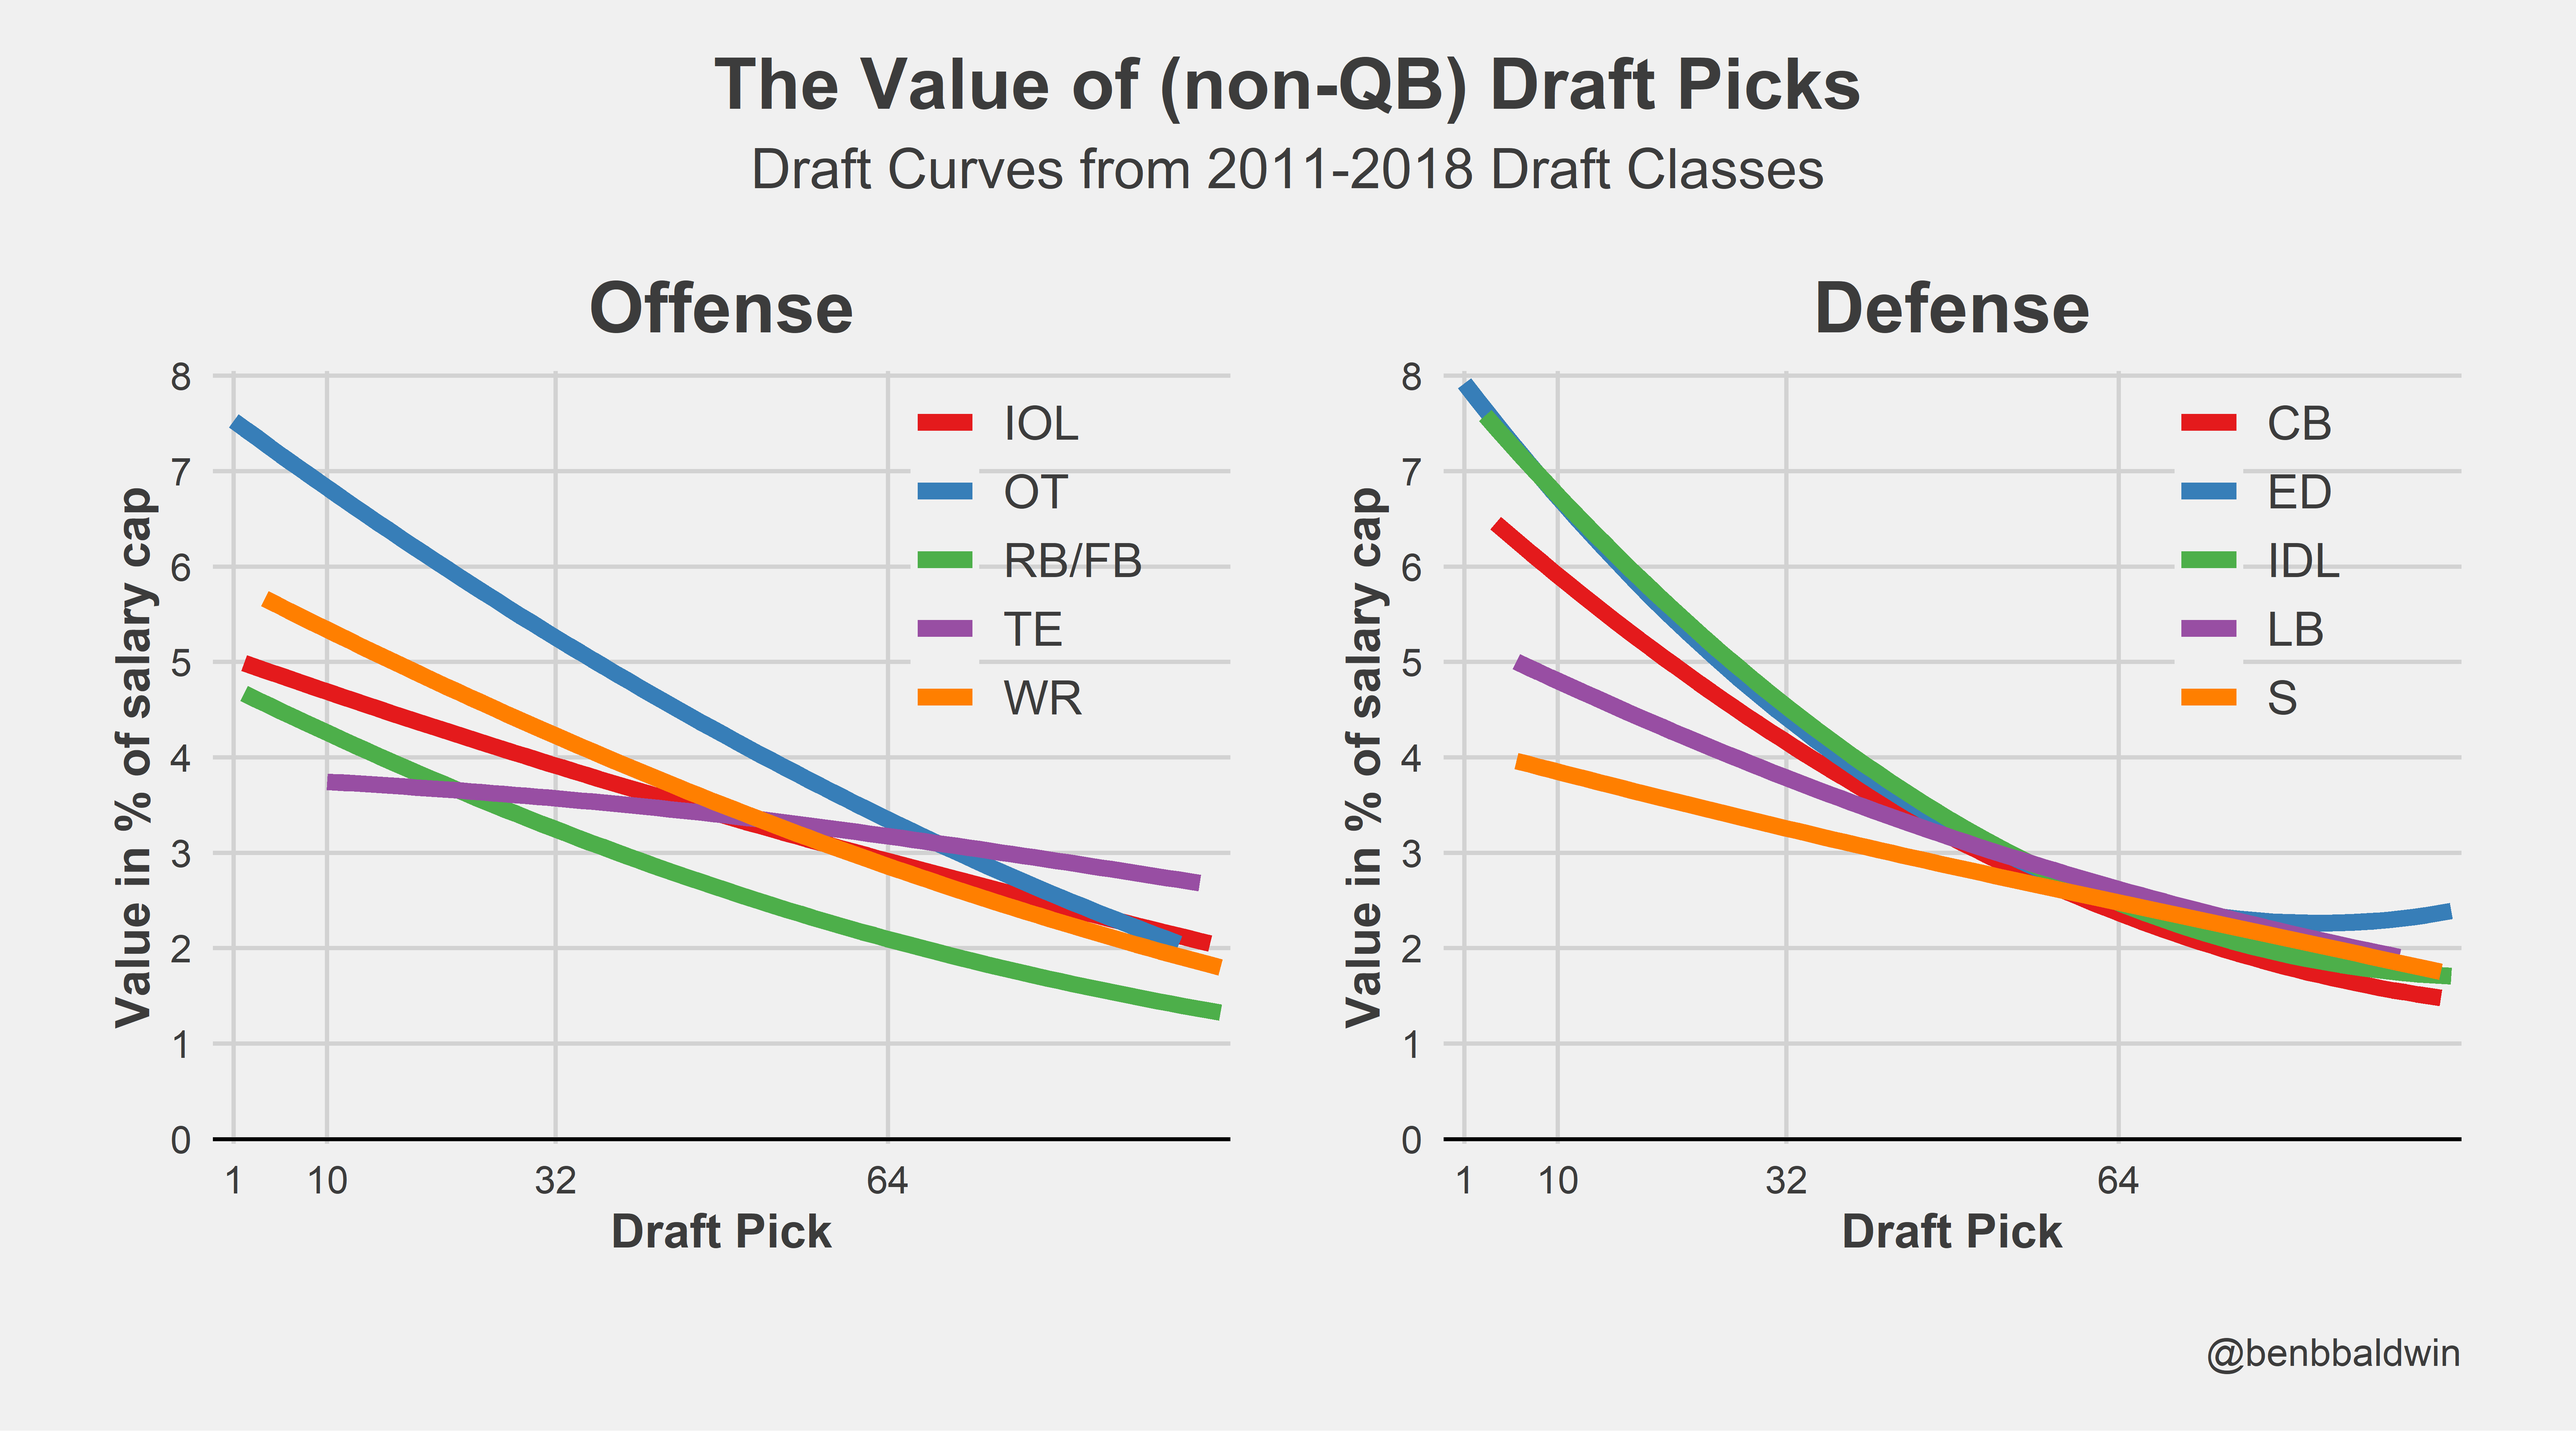
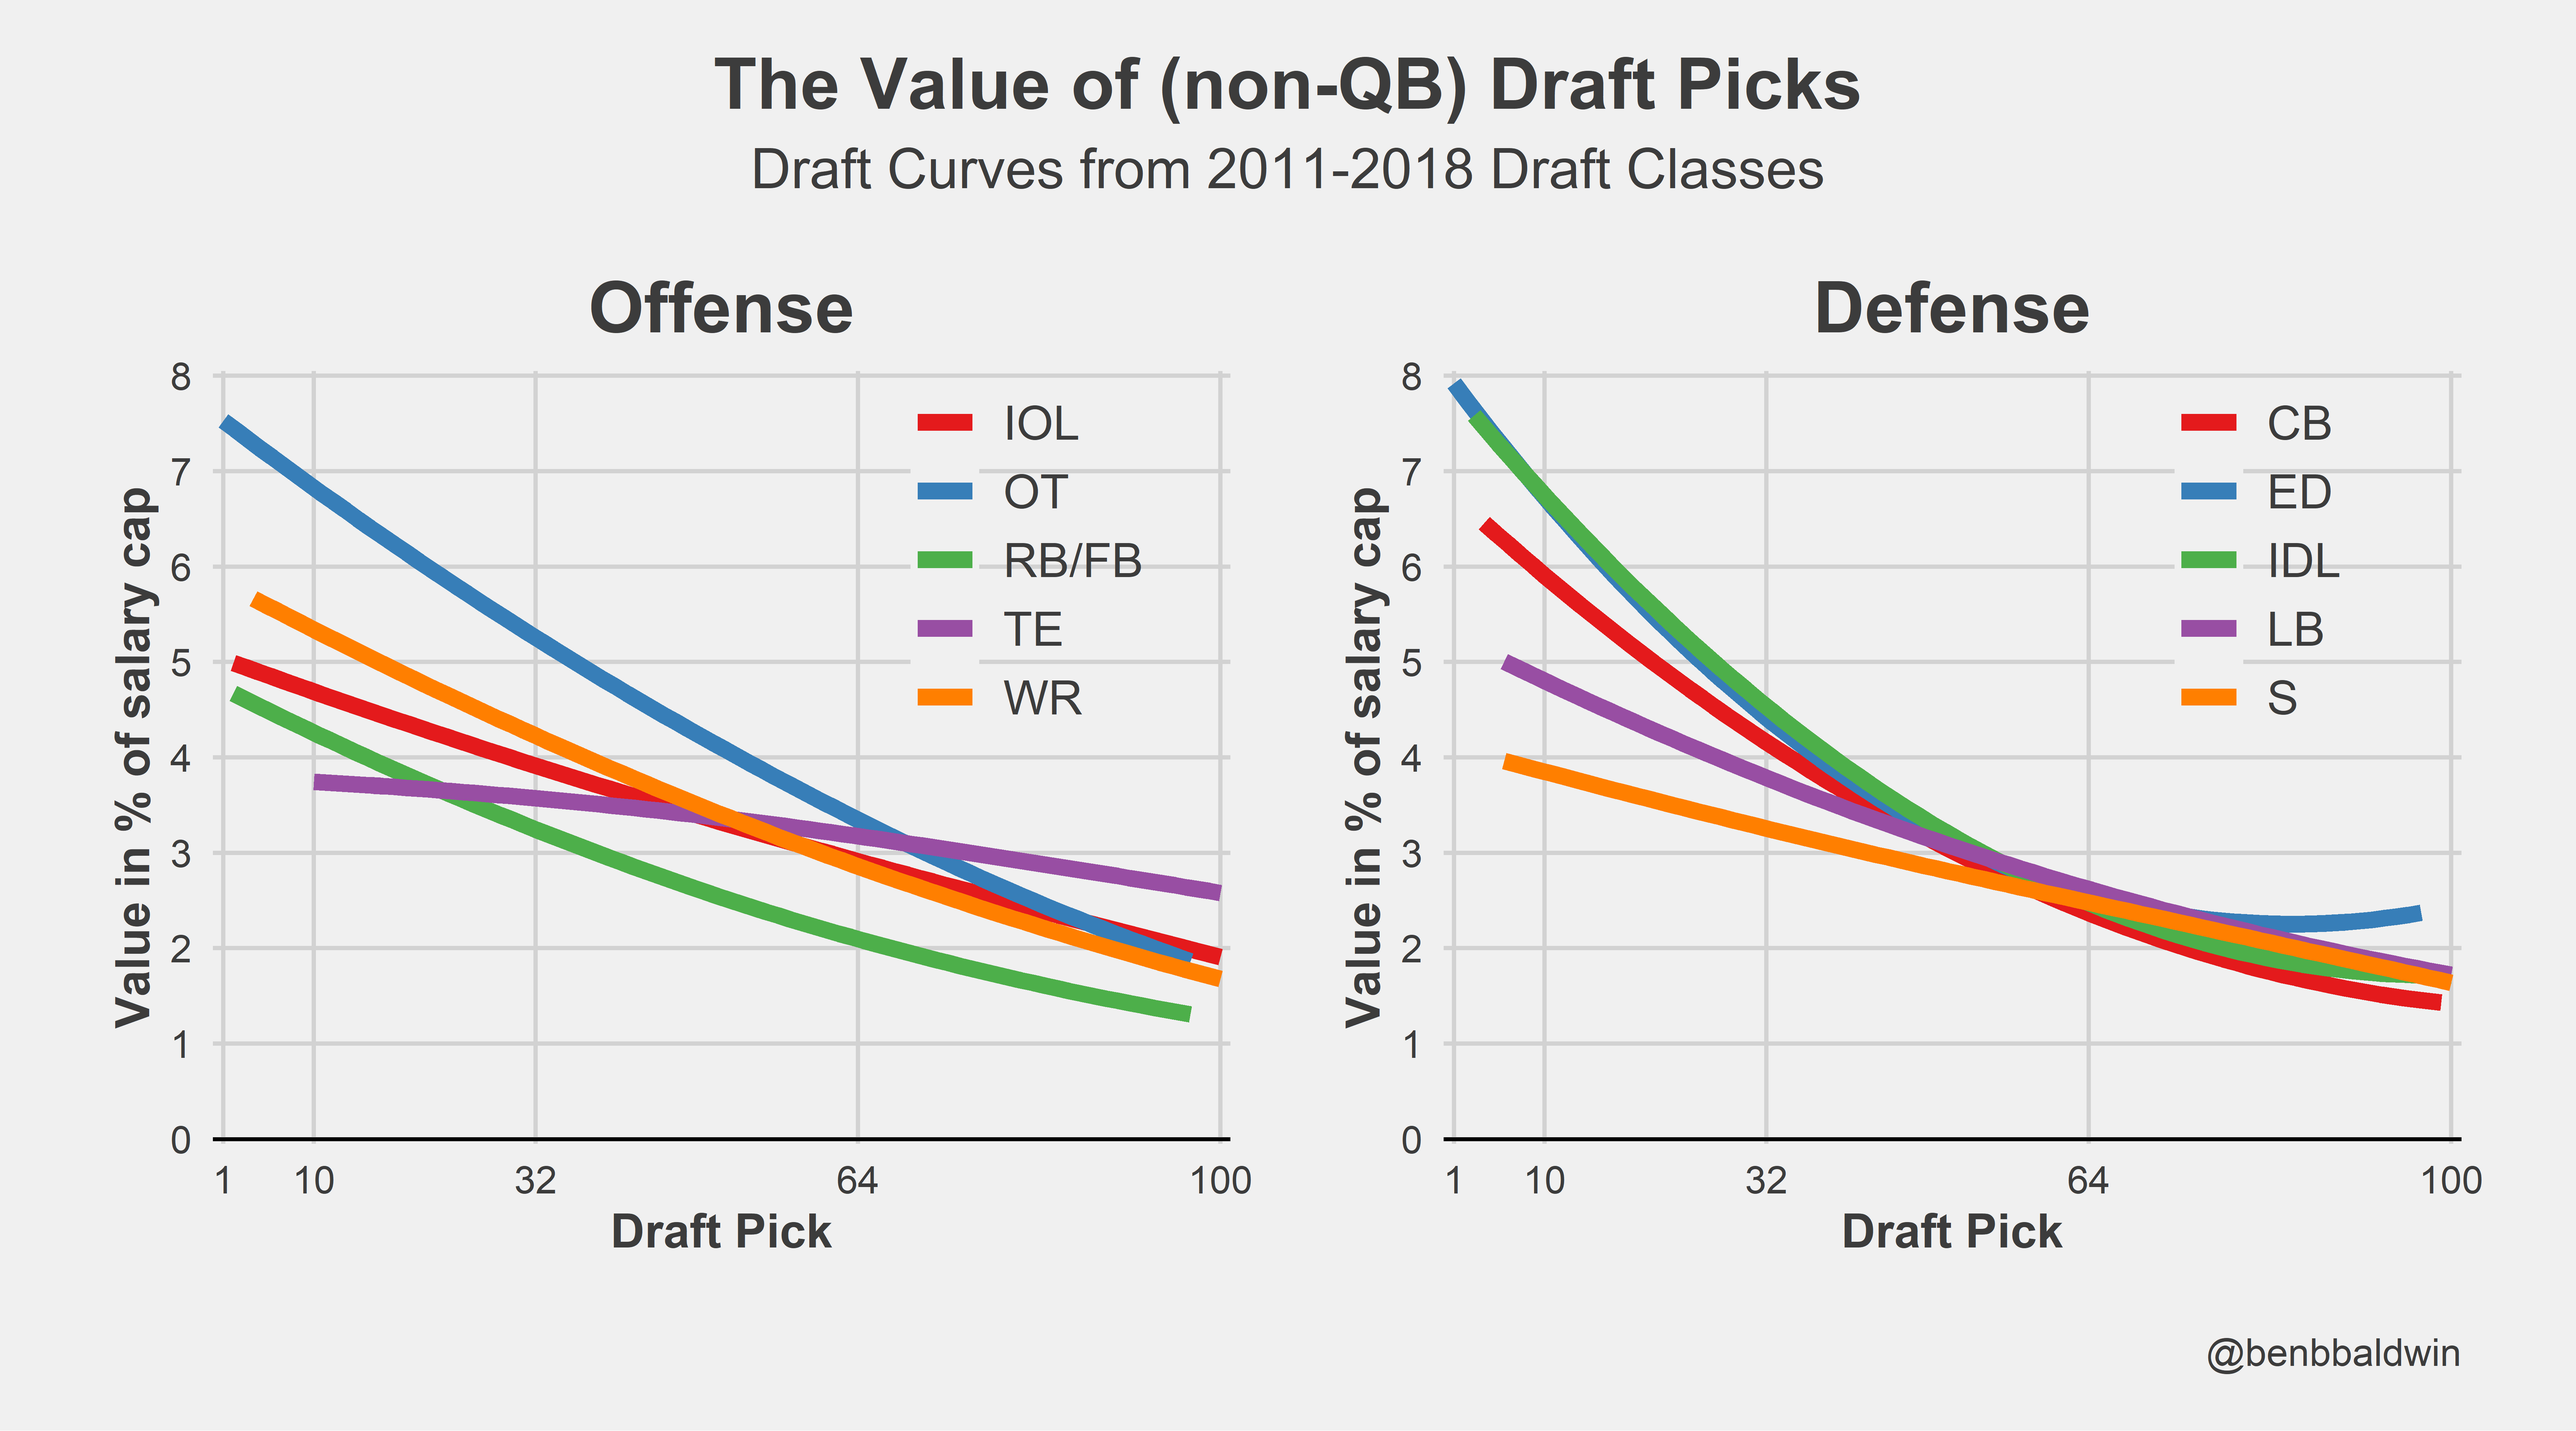
fix axes

diff --git a/_posts/2023-02-23-nfl-draft-value-chart/nfl-draft-value-chart.html b/_posts/2023-02-23-nfl-draft-value-chart/nfl-draft-value-chart.html
@@ -1571,6 +1571,7 @@ code span.wa { color: #5e5e5e; font-style: italic; } /* Warning */
 <p>Before moving forward, a thank you to the invaluable resource that <a href="https://overthecap.com/">Over The Cap</a> represents. All of the contract data used in this post is taken from their website and this analysis wouldn’t be possible without their hard work.</p>
 <p><strong>Updated on February 27, 2023</strong>: (a) added more picks to the table at the bottom so it now displays picks 1-256, (b) added on-field value to table at the bottom, and (c) re-scaled surplus value so it’s 0-to-100 (thank you to Luckym4n_ <a href="https://twitter.com/Luckym4n_/status/1629595953261838336">for the suggestion</a>)/</p>
 <p><strong>Updated on April 11, 2023</strong>: Add 2018 draft class to on-field value calculations. Now covers 2011 through 2018. For Calvin Ridley, assume he’ll get an extension equivalent to tag value. In addition, use archieved version of Sportrac rookie contract value to avoid site updates breaking the scrape.</p>
+<p><strong>Updated on April 17, 2023</strong>: Added position-specific draft curves.</p>
 <h1 id="part-1-make-a-surplus-value-curve">Part 1: Make a surplus value curve</h1>
 <p>In order to calculate the surplus value of each pick. We need two pieces of information. First, how much each pick costs (the contract); and second, how much benefit each pick provides (on-field performance).</p>
 <h2 id="how-expensive-is-each-draft-picks-rookie-deal">How expensive is each draft pick’s rookie deal?</h2>
@@ -1660,13 +1661,13 @@ code span.wa { color: #5e5e5e; font-style: italic; } /* Warning */
 <h1 id="part-4-the-full-table">Part 4: The full table</h1>
 <p>Here’s the full table:</p>
 <div class="layout-chunk" data-layout="l-body">
-<div id="avnjsqbgpk" style="padding-left:0px;padding-right:0px;padding-top:10px;padding-bottom:10px;overflow-x:auto;overflow-y:auto;width:auto;height:auto;">
+<div id="zhvbdajeeu" style="padding-left:0px;padding-right:0px;padding-top:10px;padding-bottom:10px;overflow-x:auto;overflow-y:auto;width:auto;height:auto;">
 <style>@import url("https://fonts.googleapis.com/css2?family=Lato:ital,wght@0,100;0,200;0,300;0,400;0,500;0,600;0,700;0,800;0,900;1,100;1,200;1,300;1,400;1,500;1,600;1,700;1,800;1,900&display=swap");
 html {
   font-family: Lato, -apple-system, BlinkMacSystemFont, 'Segoe UI', Roboto, Oxygen, Ubuntu, Cantarell, 'Helvetica Neue', 'Fira Sans', 'Droid Sans', Arial, sans-serif;
 }
 
-#avnjsqbgpk .gt_table {
+#zhvbdajeeu .gt_table {
   display: table;
   border-collapse: collapse;
   margin-left: auto;
@@ -1691,7 +1692,7 @@ html {
   border-left-color: #D3D3D3;
 }
 
-#avnjsqbgpk .gt_heading {
+#zhvbdajeeu .gt_heading {
   background-color: #FFFFFF;
   text-align: left;
   border-bottom-color: #FFFFFF;
@@ -1703,12 +1704,12 @@ html {
   border-right-color: #D3D3D3;
 }
 
-#avnjsqbgpk .gt_caption {
+#zhvbdajeeu .gt_caption {
   padding-top: 4px;
   padding-bottom: 4px;
 }
 
-#avnjsqbgpk .gt_title {
+#zhvbdajeeu .gt_title {
   color: #333333;
   font-size: 24px;
   font-weight: initial;
@@ -1720,7 +1721,7 @@ html {
   border-bottom-width: 0;
 }
 
-#avnjsqbgpk .gt_subtitle {
+#zhvbdajeeu .gt_subtitle {
   color: #333333;
   font-size: 85%;
   font-weight: initial;
@@ -1732,13 +1733,13 @@ html {
   border-top-width: 0;
 }
 
-#avnjsqbgpk .gt_bottom_border {
+#zhvbdajeeu .gt_bottom_border {
   border-bottom-style: solid;
   border-bottom-width: 2px;
   border-bottom-color: #D3D3D3;
 }
 
-#avnjsqbgpk .gt_col_headings {
+#zhvbdajeeu .gt_col_headings {
   border-top-style: solid;
   border-top-width: 2px;
   border-top-color: #D3D3D3;
@@ -1753,7 +1754,7 @@ html {
   border-right-color: #D3D3D3;
 }
 
-#avnjsqbgpk .gt_col_heading {
+#zhvbdajeeu .gt_col_heading {
   color: #333333;
   background-color: #FFFFFF;
   font-size: 80%;
@@ -1773,7 +1774,7 @@ html {
   overflow-x: hidden;
 }
 
-#avnjsqbgpk .gt_column_spanner_outer {
+#zhvbdajeeu .gt_column_spanner_outer {
   color: #333333;
   background-color: #FFFFFF;
   font-size: 80%;
@@ -1785,15 +1786,15 @@ html {
   padding-right: 4px;
 }
 
-#avnjsqbgpk .gt_column_spanner_outer:first-child {
+#zhvbdajeeu .gt_column_spanner_outer:first-child {
   padding-left: 0;
 }
 
-#avnjsqbgpk .gt_column_spanner_outer:last-child {
+#zhvbdajeeu .gt_column_spanner_outer:last-child {
   padding-right: 0;
 }
 
-#avnjsqbgpk .gt_column_spanner {
+#zhvbdajeeu .gt_column_spanner {
   border-bottom-style: solid;
   border-bottom-width: 2px;
   border-bottom-color: #D3D3D3;
@@ -1805,7 +1806,7 @@ html {
   width: 100%;
 }
 
-#avnjsqbgpk .gt_group_heading {
+#zhvbdajeeu .gt_group_heading {
   padding-top: 8px;
   padding-bottom: 8px;
   padding-left: 5px;
@@ -1831,7 +1832,7 @@ html {
   text-align: left;
 }
 
-#avnjsqbgpk .gt_empty_group_heading {
+#zhvbdajeeu .gt_empty_group_heading {
   padding: 0.5px;
   color: #333333;
   background-color: #FFFFFF;
@@ -1846,15 +1847,15 @@ html {
   vertical-align: middle;
 }
 
-#avnjsqbgpk .gt_from_md > :first-child {
+#zhvbdajeeu .gt_from_md > :first-child {
   margin-top: 0;
 }
 
-#avnjsqbgpk .gt_from_md > :last-child {
+#zhvbdajeeu .gt_from_md > :last-child {
   margin-bottom: 0;
 }
 
-#avnjsqbgpk .gt_row {
+#zhvbdajeeu .gt_row {
   padding-top: 2px;
   padding-bottom: 2px;
   padding-left: 5px;
@@ -1873,7 +1874,7 @@ html {
   overflow-x: hidden;
 }
 
-#avnjsqbgpk .gt_stub {
+#zhvbdajeeu .gt_stub {
   color: #333333;
   background-color: #FFFFFF;
   font-size: 80%;
@@ -1886,7 +1887,7 @@ html {
   padding-right: 5px;
 }
 
-#avnjsqbgpk .gt_stub_row_group {
+#zhvbdajeeu .gt_stub_row_group {
   color: #333333;
   background-color: #FFFFFF;
   font-size: 100%;
@@ -1900,11 +1901,11 @@ html {
   vertical-align: top;
 }
 
-#avnjsqbgpk .gt_row_group_first td {
+#zhvbdajeeu .gt_row_group_first td {
   border-top-width: 2px;
 }
 
-#avnjsqbgpk .gt_summary_row {
+#zhvbdajeeu .gt_summary_row {
   color: #333333;
   background-color: #FFFFFF;
   text-transform: inherit;
@@ -1914,16 +1915,16 @@ html {
   padding-right: 5px;
 }
 
-#avnjsqbgpk .gt_first_summary_row {
+#zhvbdajeeu .gt_first_summary_row {
   border-top-style: solid;
   border-top-color: #D3D3D3;
 }
 
-#avnjsqbgpk .gt_first_summary_row.thick {
+#zhvbdajeeu .gt_first_summary_row.thick {
   border-top-width: 2px;
 }
 
-#avnjsqbgpk .gt_last_summary_row {
+#zhvbdajeeu .gt_last_summary_row {
   padding-top: 8px;
   padding-bottom: 8px;
   padding-left: 5px;
@@ -1933,7 +1934,7 @@ html {
   border-bottom-color: #D3D3D3;
 }
 
-#avnjsqbgpk .gt_grand_summary_row {
+#zhvbdajeeu .gt_grand_summary_row {
   color: #333333;
   background-color: #FFFFFF;
   text-transform: inherit;
@@ -1943,7 +1944,7 @@ html {
   padding-right: 5px;
 }
 
-#avnjsqbgpk .gt_first_grand_summary_row {
+#zhvbdajeeu .gt_first_grand_summary_row {
   padding-top: 8px;
   padding-bottom: 8px;
   padding-left: 5px;
@@ -1953,11 +1954,11 @@ html {
   border-top-color: #D3D3D3;
 }
 
-#avnjsqbgpk .gt_striped {
+#zhvbdajeeu .gt_striped {
   background-color: #FAFAFA;
 }
 
-#avnjsqbgpk .gt_table_body {
+#zhvbdajeeu .gt_table_body {
   border-top-style: solid;
   border-top-width: 2px;
   border-top-color: #D3D3D3;
@@ -1966,7 +1967,7 @@ html {
   border-bottom-color: #D3D3D3;
 }
 
-#avnjsqbgpk .gt_footnotes {
+#zhvbdajeeu .gt_footnotes {
   color: #333333;
   background-color: #FFFFFF;
   border-bottom-style: none;
@@ -1980,7 +1981,7 @@ html {
   border-right-color: #D3D3D3;
 }
 
-#avnjsqbgpk .gt_footnote {
+#zhvbdajeeu .gt_footnote {
   margin: 0px;
   font-size: 90%;
   padding-left: 4px;
@@ -1989,7 +1990,7 @@ html {
   padding-right: 5px;
 }
 
-#avnjsqbgpk .gt_sourcenotes {
+#zhvbdajeeu .gt_sourcenotes {
   color: #333333;
   background-color: #FFFFFF;
   border-bottom-style: none;
@@ -2003,7 +2004,7 @@ html {
   border-right-color: #D3D3D3;
 }
 
-#avnjsqbgpk .gt_sourcenote {
+#zhvbdajeeu .gt_sourcenote {
   font-size: 12px;
   padding-top: 4px;
   padding-bottom: 4px;
@@ -2011,64 +2012,64 @@ html {
   padding-right: 5px;
 }
 
-#avnjsqbgpk .gt_left {
+#zhvbdajeeu .gt_left {
   text-align: left;
 }
 
-#avnjsqbgpk .gt_center {
+#zhvbdajeeu .gt_center {
   text-align: center;
 }
 
-#avnjsqbgpk .gt_right {
+#zhvbdajeeu .gt_right {
   text-align: right;
   font-variant-numeric: tabular-nums;
 }
 
-#avnjsqbgpk .gt_font_normal {
+#zhvbdajeeu .gt_font_normal {
   font-weight: normal;
 }
 
-#avnjsqbgpk .gt_font_bold {
+#zhvbdajeeu .gt_font_bold {
   font-weight: bold;
 }
 
-#avnjsqbgpk .gt_font_italic {
+#zhvbdajeeu .gt_font_italic {
   font-style: italic;
 }
 
-#avnjsqbgpk .gt_super {
+#zhvbdajeeu .gt_super {
   font-size: 65%;
 }
 
-#avnjsqbgpk .gt_footnote_marks {
+#zhvbdajeeu .gt_footnote_marks {
   font-style: italic;
   font-weight: normal;
   font-size: 75%;
   vertical-align: 0.4em;
 }
 
-#avnjsqbgpk .gt_asterisk {
+#zhvbdajeeu .gt_asterisk {
   font-size: 100%;
   vertical-align: 0;
 }
 
-#avnjsqbgpk .gt_indent_1 {
+#zhvbdajeeu .gt_indent_1 {
   text-indent: 5px;
 }
 
-#avnjsqbgpk .gt_indent_2 {
+#zhvbdajeeu .gt_indent_2 {
   text-indent: 10px;
 }
 
-#avnjsqbgpk .gt_indent_3 {
+#zhvbdajeeu .gt_indent_3 {
   text-indent: 15px;
 }
 
-#avnjsqbgpk .gt_indent_4 {
+#zhvbdajeeu .gt_indent_4 {
   text-indent: 20px;
 }
 
-#avnjsqbgpk .gt_indent_5 {
+#zhvbdajeeu .gt_indent_5 {
   text-indent: 25px;
 }
 </style>
